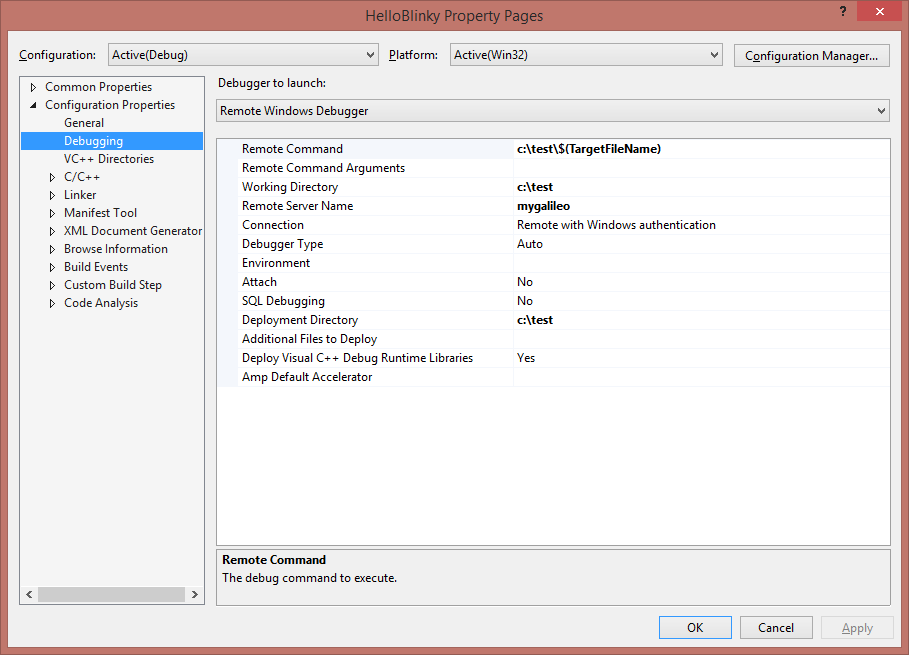
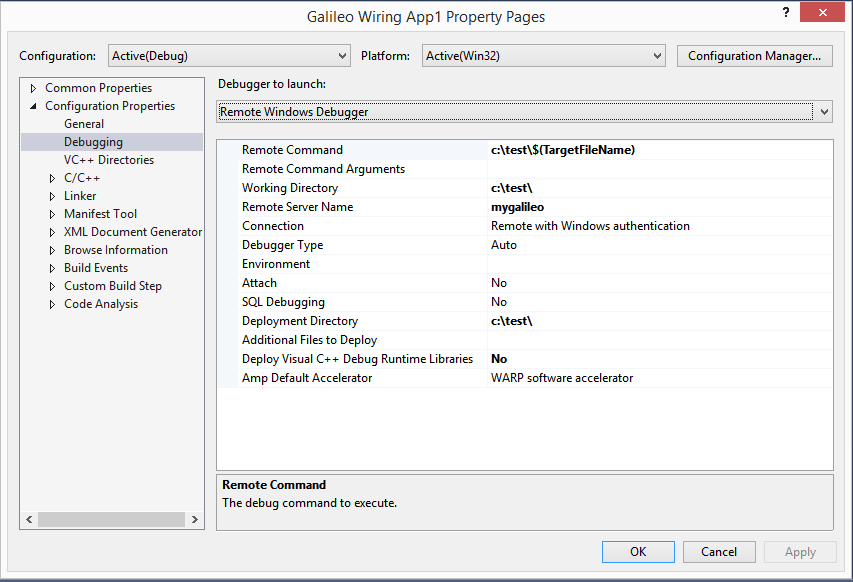
Updated the remote debugging steps for better clarification, including images.

Changed region(s): [[0.0, 0.0, 1.0, 1.0], [0.5791, 0.5876, 0.7315, 0.6804]]

diff --git a/AdvancedUsage.md b/AdvancedUsage.md
@@ -68,8 +68,8 @@ permalink: /AdvancedUsage.htm
         <div class="panel-body">
             <p>With your project open in Visual Studio:
                 <ul>
-                    <li>select the <kbd>Project</kbd> menu</li>
-                    <li>select <kbd>Properties</kbd></li>
+                    <li>Right click on your project (not solution) in the Solution Explorer and select <kbd>Properties</kbd></li>
+                        <img src="images\ConfigureRemoteDebugger1.png"/>
                     <li>expand <kbd>Configuration Properties</kbd></li>
                     <li>select the <kbd>Debugging</kbd> tree item</li>
                     <li>Change the <kbd>Debugger to launch</kbd> to <kbd>Remote Windows Debugger</kbd></li>
